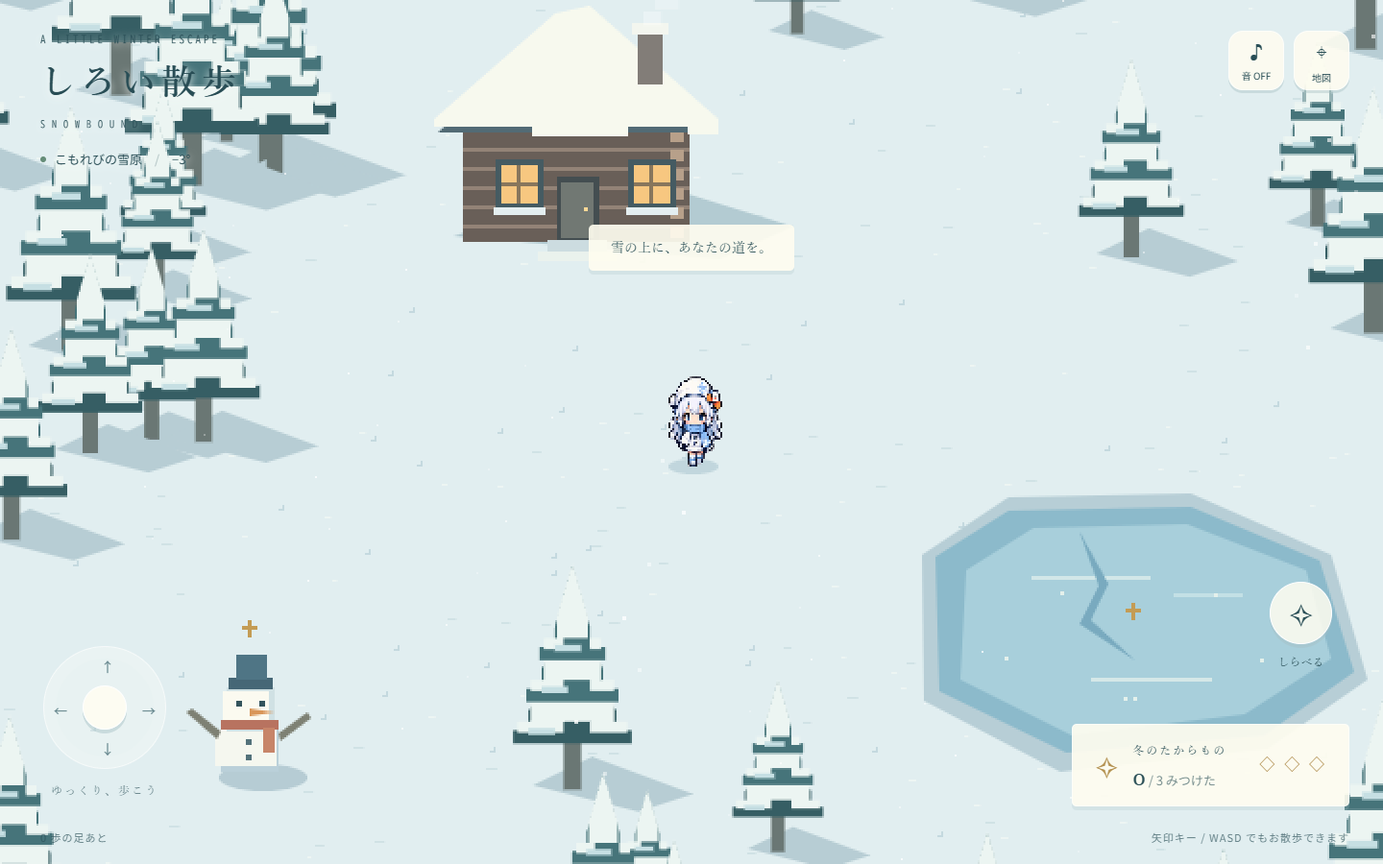
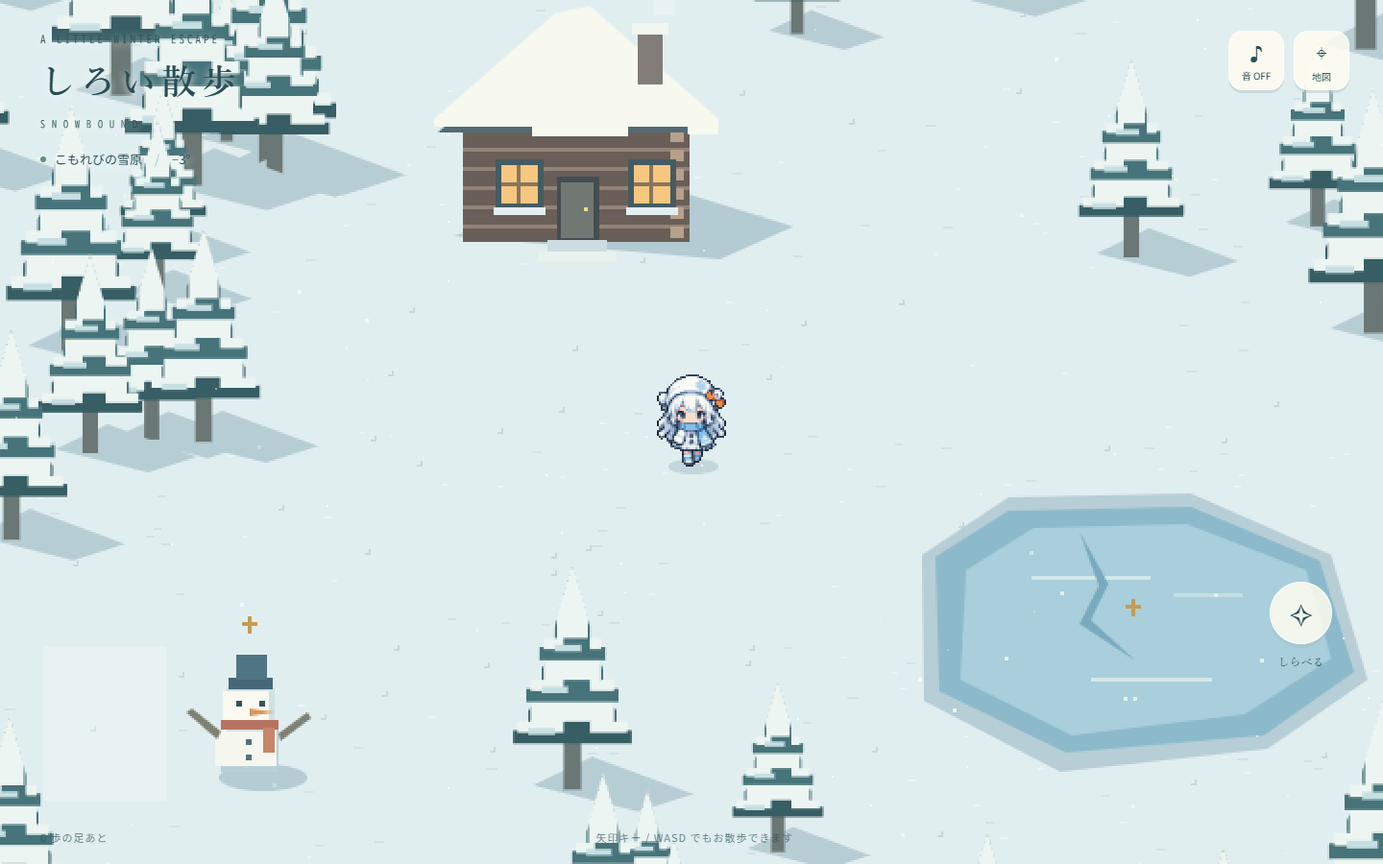
Stabilize winter sprite animation and clear mobile walking area

diff --git a/ui-lab/snow-walk/world.js b/ui-lab/snow-walk/world.js
@@ -1,7 +1,7 @@
 'use strict';
 const canvas=document.querySelector('#world'),ctx=canvas.getContext('2d'),$=s=>document.querySelector(s);
 const W=1600,H=1400,player={x:800,y:740,dir:0},camera={x:800,y:740},keys=new Set(),joy={x:0,y:0};
-let width,height,time=0,last=0,walk=0,stepCount=0,stepTravel=0,toastUntil=7,frames=[],sound=false,audioContext;
+let width,height,time=0,last=0,walk=0,stepCount=0,stepTravel=0,toastUntil=0,frames=[],sound=false,audioContext;
 const footprints=[],trees=[],details=[],found=new Set(),reduced=matchMedia('(prefers-reduced-motion: reduce)').matches;
 let seed=41;function random(){seed=(seed*1664525+1013904223)>>>0;return seed/4294967296}
 const sites=[{x:740,y:620,name:'灯りのともる小屋',text:'窓から、焼きたてのパンの香り。',type:'cabin'},{x:1030,y:830,name:'こおりの池',text:'氷の下で、星のかけらが光っている。',type:'pond'},{x:570,y:900,name:'ひとりの雪だるま',text:'小さなマフラーが、風にゆれている。',type:'snowman'}];
@@ -26,13 +26,13 @@ addEventListener('keydown',e=>{if(['ArrowUp','ArrowDown','ArrowLeft','ArrowRight
 const stick=$('#stick');let pointer=null;function stickMove(e){if(e.pointerId!==pointer)return;const r=stick.getBoundingClientRect(),x=e.clientX-r.left-r.width/2,y=e.clientY-r.top-r.height/2,d=Math.hypot(x,y),m=Math.min(d,37);joy.x=d>6?x/d*m/37:0;joy.y=d>6?y/d*m/37:0;$('#knob').style.transform=`translate(${joy.x*32}px,${joy.y*32}px)`}function release(){pointer=null;joy.x=joy.y=0;$('#knob').style.transform='';keys.clear()}stick.onpointerdown=e=>{if(pointer!==null)return;pointer=e.pointerId;stick.setPointerCapture(pointer);stickMove(e)};stick.onpointermove=stickMove;stick.onpointerup=release;stick.onpointercancel=release;stick.onlostpointercapture=release;addEventListener('blur',release);document.addEventListener('visibilitychange',()=>{release();if(document.hidden)audioContext?.suspend();else if(sound)audioContext?.resume()});
 function blocked(x,y){return x<35||y<55||x>W-35||y>H-35||trees.some(t=>Math.hypot(t.x-x,t.y-y)<13*t.size)|| (x>sites[0].x-62&&x<sites[0].x+62&&y>sites[0].y-70&&y<sites[0].y+16)||Math.hypot(x-sites[2].x,y-sites[2].y+5)<22}
 function drawMap(){const m=$('#map').getContext('2d');m.fillStyle='#dfeaec';m.fillRect(0,0,220,220);m.fillStyle='#7d9fa0';trees.forEach(t=>m.fillRect(t.x/W*220,t.y/H*220,3,3));sites.forEach(s=>{m.fillStyle=found.has(s.type)?'#b68a43':'#6e919f';m.fillRect(s.x/W*220-3,s.y/H*220-3,6,6)});m.fillStyle='#c67759';m.beginPath();m.arc(player.x/W*220,player.y/H*220,4,0,7);m.fill()}
-function render(now){const dt=Math.min((now-last)/1000||0,.04);last=now;time+=dt;let dx=joy.x+(keys.has('arrowright')||keys.has('d')?1:0)-(keys.has('arrowleft')||keys.has('a')?1:0),dy=joy.y+(keys.has('arrowdown')||keys.has('s')?1:0)-(keys.has('arrowup')||keys.has('w')?1:0);const len=Math.hypot(dx,dy);if(len>1){dx/=len;dy/=len}const ox=player.x,oy=player.y;if(len){player.dir=Math.abs(dx)>Math.abs(dy)?(dx>0?2:1):(dy>0?0:3);if(!blocked(player.x+dx*70*dt,player.y))player.x+=dx*70*dt;if(!blocked(player.x,player.y+dy*70*dt))player.y+=dy*70*dt}const distance=Math.hypot(player.x-ox,player.y-oy);walk+=distance/9;stepTravel+=distance;if(stepTravel>10){stepTravel=0;stepCount++;const side=stepCount%2?3:-3;footprints.push({x:player.x-dy*side,y:player.y+dx*side,t:time,dir:player.dir});if(footprints.length>700)footprints.shift();$('#steps').textContent=stepCount+' 歩の足あと';crunch()}camera.x+=(player.x-camera.x)*Math.min(1,dt*5);camera.y+=(player.y-camera.y)*Math.min(1,dt*5);ctx.setTransform(1,0,0,1,0,0);rect(0,0,width,height,'#e1eef0');ctx.save();ctx.translate(Math.round(width/2-camera.x),Math.round(height*.54-camera.y));
+function render(now){const dt=Math.min((now-last)/1000||0,.04);last=now;time+=dt;let dx=joy.x+(keys.has('arrowright')||keys.has('d')?1:0)-(keys.has('arrowleft')||keys.has('a')?1:0),dy=joy.y+(keys.has('arrowdown')||keys.has('s')?1:0)-(keys.has('arrowup')||keys.has('w')?1:0);const len=Math.hypot(dx,dy);if(len>1){dx/=len;dy/=len}const ox=player.x,oy=player.y;if(len){player.dir=walkingDirection(dx,dy,player.dir);if(!blocked(player.x+dx*70*dt,player.y))player.x+=dx*70*dt;if(!blocked(player.x,player.y+dy*70*dt))player.y+=dy*70*dt}const distance=Math.hypot(player.x-ox,player.y-oy);walk+=distance/9;stepTravel+=distance;if(stepTravel>10){stepTravel=0;stepCount++;const side=stepCount%2?3:-3;footprints.push({x:player.x-dy*side,y:player.y+dx*side,t:time,dir:player.dir});if(footprints.length>700)footprints.shift();$('#steps').textContent=stepCount+' 歩の足あと';crunch()}camera.x+=(player.x-camera.x)*Math.min(1,dt*5);camera.y+=(player.y-camera.y)*Math.min(1,dt*5);ctx.setTransform(1,0,0,1,0,0);rect(0,0,width,height,'#e1eef0');ctx.save();ctx.translate(Math.round(width/2-camera.x),Math.round(height*.54-camera.y));
 rect(0,0,W,H,'#e1eef0');for(const d of details){if(Math.abs(d.x-camera.x)>width/2+10||Math.abs(d.y-camera.y)>height/2+40)continue;if(d.r>.8){rect(d.x,d.y,3,1,'#c4d9df');rect(d.x+2,d.y-2,1,3,'#c4d9df')}else rect(d.x,d.y,2+d.r*5,1,d.r>.4?'#d0e2e5':'#edf5f3')}
 pond(sites[1]);for(const f of footprints){const age=(time-f.t)/85;if(age>1)continue;ctx.globalAlpha=(1-age)*.5;rect(f.x-1,f.y-1,f.dir===1||f.dir===2?4:2,f.dir===1||f.dir===2?2:4,'#7395aa');rect(f.x-1,f.y-2,2,1,'#fff')}ctx.globalAlpha=1;
-const objects=[...trees,sites[0],sites[2],{...player,type:'player'}].sort((a,b)=>a.y-b.y);for(const o of objects){if(Math.abs(o.x-camera.x)>width/2+130||Math.abs(o.y-camera.y)>height/2+150)continue;if(o.type==='tree')tree(o);else if(o.type==='cabin')cabin(o);else if(o.type==='snowman')snowman(o);else{ellipse(player.x+1,player.y,13,4,'#9dbac877');const frame=frames[player.dir*3+(distance>.01?Math.floor(walk)%3:1)];if(frame)ctx.drawImage(frame,Math.round(player.x-20),Math.round(player.y-49),40,50)}}
+const objects=[...trees,sites[0],sites[2],{...player,type:'player'}].sort((a,b)=>a.y-b.y);for(const o of objects){if(Math.abs(o.x-camera.x)>width/2+130||Math.abs(o.y-camera.y)>height/2+150)continue;if(o.type==='tree')tree(o);else if(o.type==='cabin')cabin(o);else if(o.type==='snowman')snowman(o);else{ellipse(player.x+1,player.y,13,4,'#9dbac877');const frame=frames[player.dir*4+(distance>.01?Math.floor(walk)%4:0)];if(frame)ctx.drawImage(frame,Math.round(player.x-20),Math.round(player.y-49),40,50)}}
 for(const s of sites){if(!found.has(s.type)){const y=s.y-(s.type==='cabin'?132:s.type==='pond'?15:76);rect(s.x-1,y-4+Math.sin(time*2)*2,2,9,'#c49c54');rect(s.x-4,y-1+Math.sin(time*2)*2,8,2,'#c49c54')}}ctx.restore();
 if(!reduced){for(let i=0;i<75;i++){const x=((i*73.13+Math.sin(time*.3+i)*13+time*(3+i%3))% (width+20))-10,y=(i*49.71+time*(9+i%6))%(height+20)-10;ctx.globalAlpha=.3+(i%4)*.16;rect(x,y,i%5===0?2:1,i%5===0?2:1,'#fff')}ctx.globalAlpha=1}
 const s=near();$('#action').classList.toggle('ready',!!s);$('#actionLabel').textContent=s?'みつけた？':'しらべる';$('#place').textContent=s?s.name:'こもれびの雪原';if(time>toastUntil)$('#toast').style.opacity=0;if(!$('#mapPanel').hidden)drawMap();requestAnimationFrame(render)}
-async function load(){const img=new Image();img.src='assets/walker.jpg';await img.decode();for(let row=0;row<4;row++)for(let col=0;col<3;col++){const c=document.createElement('canvas');c.width=300;c.height=300;const g=c.getContext('2d',{willReadFrequently:true});g.drawImage(img,col*300+(col===0?25:col===1?8:10),row*300+22,300,300,0,0,300,300);const data=g.getImageData(0,0,300,300),p=data.data,seen=new Uint8Array(90000),queue=new Int32Array(90000);let head=0,tail=0;function add(i){if(i<0||i>=90000||seen[i])return;seen[i]=1;const j=i*4;if(p[j]>225&&p[j+1]>225&&p[j+2]>225)queue[tail++]=i}for(let i=0;i<300;i++){add(i);add(89700+i);add(i*300);add(i*300+299)}while(head<tail){const i=queue[head++];p[i*4+3]=0;if(i%300)add(i-1);if(i%300<299)add(i+1);add(i-300);add(i+300)}g.putImageData(data,0,0);frames.push(c)}$('#loading').hidden=true;requestAnimationFrame(render)}
+async function load(){frames=await loadWalkerFrames(); $("#loading").hidden=true;requestAnimationFrame(render)}
 load().catch(()=>{$('#loading').textContent='画像を読み込めませんでした。ページを再読み込みしてください。'});
 document.modelContext?.registerTool?.({name:'read_snow_walk',description:'Read the current position and discovered winter landmarks.',inputSchema:{type:'object',properties:{},additionalProperties:false},annotations:{readOnlyHint:true},execute:()=>({position:{x:player.x,y:player.y},steps:stepCount,discoveries:[...found]})});

diff --git a/ui-lab/snow-walk/style.css b/ui-lab/snow-walk/style.css
@@ -1,1 +1,32 @@
 *{box-sizing:border-box}html,body{margin:0;width:100%;height:100%;overflow:hidden;background:#dcebef;color:#284d55;font-family:Georgia,'Yu Mincho','Hiragino Mincho ProN',serif}body{touch-action:none;user-select:none}#world{display:block;width:100%;height:100%;image-rendering:pixelated;outline:none}button{font:inherit;cursor:pointer;color:inherit;-webkit-tap-highlight-color:transparent}button:focus-visible,#world:focus-visible{outline:3px solid #c08032;outline-offset:5px}header{position:absolute;top:max(35px,env(safe-area-inset-top));left:42px;pointer-events:none;text-shadow:0 2px 8px #f5faf8}.eyebrow{font-family:monospace;font-size:11px;letter-spacing:3px}h1{font-size:36px;font-weight:500;letter-spacing:6px;margin:12px 0}h1 span{display:block;font:10px monospace;letter-spacing:7px;margin-top:9px}header p{font:13px sans-serif;margin-top:22px;display:flex;align-items:center;gap:9px}i{height:6px;width:6px;background:#658d78;border-radius:50%}.divider{opacity:.35;padding:0 4px}nav{position:absolute;right:35px;top:max(32px,env(safe-area-inset-top));display:flex;gap:10px}nav button{width:58px;height:62px;border:1px solid #fff9;background:#fffdf0d9;box-shadow:0 3px 0 #a7bfc369;border-radius:15px;font-size:25px}nav span{display:block;font:10px sans-serif;margin-top:3px}#toast{position:absolute;top:26%;left:50%;transform:translateX(-50%);padding:13px 23px;border-radius:5px;background:#fffdf0e8;box-shadow:0 4px 0 #a4bec33b;font-size:14px;white-space:nowrap;transition:opacity 1s;pointer-events:none}#journal{position:absolute;right:35px;bottom:60px;background:#fffdf0e8;border:1px solid #fff9;padding:16px 22px;display:flex;gap:14px;align-items:center;border-radius:5px;box-shadow:0 4px 0 #a4bec33b}#journal small{font-size:12px;letter-spacing:2px}#journal p{margin:6px 0 0;font:13px sans-serif}#journal b{font:22px Georgia}#journal p span{opacity:.65}.star{font-size:32px;color:#b49150}#gems{letter-spacing:3px;color:#ad8948;margin-left:20px}#controls{position:absolute;left:45px;bottom:66px;text-align:center}#stick{width:128px;height:128px;border:1px solid #fff9;border-radius:50%;background:#f8fcf54d;box-shadow:inset 0 0 0 12px #ffffff18;position:relative;touch-action:none}#stick span{position:absolute;font:14px sans-serif;color:#64858c}.north{top:10px;left:59px}.south{bottom:10px;left:59px}.west{left:10px;top:56px}.east{right:10px;top:56px}#knob{position:absolute;left:40px;top:40px;width:46px;height:46px;border-radius:50%;background:#fffdf2e8;border:1px solid white;box-shadow:0 4px 0 #9bb7be66;pointer-events:none}.control-label{font-size:12px;letter-spacing:2px;margin-top:13px;opacity:.7}#actionWrap{position:absolute;bottom:200px;right:53px;text-align:center;display:grid;gap:9px;font-size:12px}#action{border-radius:50%;width:65px;height:65px;background:#fffdf0d9;border:1px solid white;font-size:34px;box-shadow:0 4px 0 #a4bec366}#action.ready{background:#ffe8b7;box-shadow:0 0 25px #ffda94}footer{position:absolute;bottom:max(20px,env(safe-area-inset-bottom));left:42px;right:35px;display:flex;justify-content:space-between;font:11px sans-serif;letter-spacing:1px;opacity:.7}#mapPanel{position:absolute;right:35px;top:110px;background:#fffdf2f5;padding:20px;box-shadow:0 8px 30px #31596233;border-radius:8px;z-index:2}#mapPanel h2{font-size:16px;font-weight:normal;margin-top:0}#mapPanel p{font-size:11px}#map{width:220px;height:220px;image-rendering:pixelated}#loading{position:absolute;inset:0;display:grid;place-items:center;background:#e1eef0;z-index:5;font-size:16px}#loading[hidden]{display:none}@media(max-width:600px){header{left:22px;top:max(25px,env(safe-area-inset-top))}.eyebrow{font-size:9px;letter-spacing:2px}h1{font-size:27px;letter-spacing:4px}h1 span{font-size:9px;letter-spacing:5px}header p{font-size:11px;margin-top:16px}nav{right:18px;top:24px;gap:7px}nav button{width:43px;height:51px;border-radius:12px;font-size:22px}nav span{font-size:9px}#controls{left:24px;bottom:85px}#stick{width:120px;height:120px}#knob{left:36px;top:36px}.north,.south{left:55px}.west,.east{top:52px}#actionWrap{right:35px;bottom:107px}#journal{left:22px;right:auto;bottom:255px;padding:11px 14px;gap:10px}#journal small{font-size:11px}#journal p{margin-top:3px}#gems{margin-left:12px}footer{left:24px;right:24px;bottom:28px}footer span:last-child{display:none}#toast{top:24%;font-size:12px;max-width:90%;white-space:normal;text-align:center;width:max-content}#mapPanel{right:18px;top:88px}}@media(max-height:540px){#journal{bottom:40px}#controls{bottom:40px}#actionWrap{bottom:140px}header h1{font-size:23px}header p{margin-top:8px}#toast{top:18%}}
+/* Keep the walking surface clear, including short mobile browser viewports. */
+body{height:100dvh;position:relative}
+#journal{left:auto;right:24px;bottom:max(22px,env(safe-area-inset-bottom));padding:0;border:0;background:none;box-shadow:none;border-radius:0;gap:7px;pointer-events:none;text-shadow:0 1px 4px #fff}
+#journal>div:first-of-type{display:flex;align-items:baseline;gap:9px}
+#journal small{font-size:12px;letter-spacing:0}
+#journal p{margin:0;font-size:12px}
+#journal b{font:16px Georgia}
+#journal .star{font-size:20px}
+#gems{display:none}
+footer{pointer-events:none}
+footer span:last-child{position:absolute;left:50%;transform:translateX(-50%);white-space:nowrap}
+#toast{top:170px;bottom:auto;max-width:min(420px,calc(100% - 40px));white-space:normal;width:max-content;text-align:center;opacity:0}
+nav span{white-space:nowrap;line-height:1.2}
+@media(max-width:600px){
+  #journal{right:22px;bottom:max(23px,env(safe-area-inset-bottom));left:auto}
+  #journal p{margin:0}
+  #toast{top:155px;font-size:12px}
+  #controls{bottom:max(72px,calc(env(safe-area-inset-bottom) + 48px))}
+  #actionWrap{bottom:max(94px,calc(env(safe-area-inset-bottom) + 70px))}
+}
+@media(max-height:540px){
+  header{top:14px;left:20px}
+  .eyebrow,header h1 span,header p{display:none}
+  nav{top:12px;right:18px}
+  #controls{bottom:48px}
+  #actionWrap{bottom:66px;right:28px}
+  #toast{top:78px}
+  #journal{bottom:max(14px,env(safe-area-inset-bottom))}
+  footer{bottom:max(18px,env(safe-area-inset-bottom))}
+  footer span:last-child{display:none}
+}

diff --git a/ui-lab/snow-walk/sprites.js b/ui-lab/snow-walk/sprites.js
@@ -1,0 +1,75 @@
+'use strict';
+// One canonical drawing per direction. Only boots change during the walk cycle;
+// the face, hat, hair and silhouette never switch to a different source drawing.
+async function loadWalkerFrames() {
+  const image = new Image();
+  image.src = 'assets/walker.jpg';
+  await image.decode();
+  const result = [];
+  const palette = ['#20283d','#34425c','#52647d','#7488a1','#99afc6',
+    '#becddd','#dbe4ed','#f9faf7','#407198','#5999c7','#85bdeb',
+    '#aed5ef','#f9dfc9','#efbca9','#d98e87','#ed8d42','#bd5733']
+    .map(hex => [1,3,5].map(offset => parseInt(hex.slice(offset,offset+2),16)));
+  for (let direction = 0; direction < 4; direction++) {
+    const source = document.createElement('canvas');
+    source.width = source.height = 300;
+    const g = source.getContext('2d', {willReadFrequently:true});
+    g.drawImage(image,308,direction*300+22,300,300,0,0,300,300);
+    const pixels = g.getImageData(0,0,300,300), p = pixels.data;
+    const visited = new Uint8Array(90000), queue = new Int32Array(90000);
+    let head=0, tail=0;
+    function visit(i) {
+      if(i<0 || i>=90000 || visited[i]) return;
+      visited[i]=1;
+      const j=i*4;
+      if(p[j]>225 && p[j+1]>225 && p[j+2]>225) queue[tail++]=i;
+    }
+    for(let i=0;i<300;i++){visit(i);visit(89700+i);visit(i*300);visit(i*300+299);}
+    while(head<tail){
+      const i=queue[head++];p[i*4+3]=0;
+      if(i%300)visit(i-1);if(i%300<299)visit(i+1);
+      visit(i-300);visit(i+300);
+    }
+    let left=300,top=300,right=0,bottom=0;
+    for(let i=0;i<90000;i++) if(p[i*4+3]) {
+      const x=i%300,y=Math.floor(i/300);
+      left=Math.min(left,x);right=Math.max(right,x);
+      top=Math.min(top,y);bottom=Math.max(bottom,y);
+    }
+    g.putImageData(pixels,0,0);
+    const base=document.createElement('canvas');base.width=40;base.height=50;
+    const b=base.getContext('2d',{willReadFrequently:true});
+    const targetWidth=Math.min(38,Math.round((right-left+1)*48/(bottom-top+1)));
+    b.imageSmoothingEnabled=true;b.imageSmoothingQuality='high';
+    b.drawImage(source,left,top,right-left+1,bottom-top+1,Math.floor((40-targetWidth)/2),1,targetWidth,48);
+    // Bake a shared small palette onto a fixed pixel grid once, not every frame.
+    const small=b.getImageData(0,0,40,50), a=small.data;
+    for(let i=0;i<a.length;i+=4){
+      if(a[i+3]<160){a[i+3]=0;continue;}
+      let best=palette[0],score=Infinity;
+      for(const color of palette){
+        const d=(a[i]-color[0])**2+(a[i+1]-color[1])**2+(a[i+2]-color[2])**2;
+        if(d<score){score=d;best=color;}
+      }
+      a[i]=best[0];a[i+1]=best[1];a[i+2]=best[2];a[i+3]=255;
+    }
+    b.putImageData(small,0,0);
+    for(const shift of [0,-1,0,1]){
+      const frame=document.createElement('canvas');frame.width=40;frame.height=50;
+      const f=frame.getContext('2d');f.imageSmoothingEnabled=false;
+      f.drawImage(base,0,40,20,10,0,40+shift,20,10);
+      f.drawImage(base,20,40,20,10,20,40-shift,20,10);
+      f.drawImage(base,0,0,40,41,0,0,40,41);
+      result.push(frame);
+    }
+  }
+  return result;
+}
+
+function walkingDirection(dx,dy,current) {
+  // Hysteresis prevents a thumb near the diagonal from rapidly flipping views.
+  const horizontal=current===1 || current===2;
+  if(horizontal ? Math.abs(dy)>Math.abs(dx)*1.35 : Math.abs(dx)>Math.abs(dy)*1.35)
+    return horizontal ? (dy>0?0:3) : (dx>0?2:1);
+  return horizontal ? (dx===0?current:dx>0?2:1) : (dy===0?current:dy>0?0:3);
+}

diff --git a/ui-lab/snow-walk/index.html b/ui-lab/snow-walk/index.html
@@ -1,12 +1,12 @@
 <!doctype html>
-<html lang="ja"><head><meta charset="UTF-8"><meta name="viewport" content="width=device-width, initial-scale=1, viewport-fit=cover"><meta name="theme-color" content="#dcebef"><link rel="icon" href="data:,"><title>しろい散歩 — Snowbound</title><link rel="stylesheet" href="style.css"></head>
+<html lang="ja"><head><meta charset="UTF-8"><meta name="viewport" content="width=device-width, initial-scale=1, viewport-fit=cover"><meta name="theme-color" content="#dcebef"><link rel="icon" href="data:,"><title>しろい散歩 — Snowbound</title><link rel="stylesheet" href="style.css?v=2"></head>
 <body><canvas id="world" tabindex="0" aria-label="雪の森。矢印キーまたはWASDで移動、スペースで調べる。"></canvas>
 <header><div class="eyebrow">A LITTLE WINTER ESCAPE</div><h1>しろい散歩<span>SNOWBOUND</span></h1><p><i></i><span id="place">こもれびの雪原</span><span class="divider">/</span> −3°</p></header>
 <nav aria-label="世界の設定"><button id="sound" aria-label="環境音をオンにする" aria-pressed="false">♪<span>音 OFF</span></button><button id="mapButton" aria-label="地図を開く" aria-expanded="false">⌖<span>地図</span></button></nav>
 <aside id="mapPanel" hidden><h2>小さな冬の地図</h2><canvas id="map" width="220" height="220" aria-label="現在地と三つの発見場所"></canvas><p>● 現在地　◆ 冬のたからもの</p></aside>
-<div id="toast" role="status">雪の上に、あなたの道を。</div>
-<section id="journal"><span class="star">✧</span><div><small>冬のたからもの</small><p><b id="count">0</b><span> / 3 みつけた</span></p></div><div id="gems">◇ ◇ ◇</div></section>
+<div id="toast" role="status"></div>
+<section id="journal"><span class="star">✧</span><div><small>冬のたからもの</small><p><b id="count">0</b><span> / 3</span></p></div><div id="gems">◇ ◇ ◇</div></section>
 <div id="controls"><div id="stick" role="group" aria-label="ドラッグして歩く"><span class="north">↑</span><span class="west">←</span><span class="east">→</span><span class="south">↓</span><div id="knob"></div></div><div class="control-label">ゆっくり、歩こう</div></div>
 <div id="actionWrap"><button id="action" aria-label="近くを調べる">✧</button><span id="actionLabel">しらべる</span></div>
 <footer><span id="steps">0 歩の足あと</span><span>矢印キー / WASD でもお散歩できます</span></footer>
-<div id="loading">雪の世界をひらいています…</div><script src="world.js"></script></body></html>
+<div id="loading">雪の世界をひらいています…</div><script src="sprites.js?v=2"></script><script src="world.js?v=2"></script></body></html>

diff --git a/ui-lab/snow-walk/RETROSPECTIVE.md b/ui-lab/snow-walk/RETROSPECTIVE.md
@@ -3,10 +3,10 @@
 ## What worked
 Border-connected white removal preserves the supplied character's white clothing. Canvas depth sorting makes trees occlude the walker naturally. Footprints alternate and fade over 85 seconds.
 ## What felt wrong
-The initial mobile scale showed too little surrounding landscape. The first cabin placement clipped the roof at spawn.
+The initial mobile scale showed too little surrounding landscape. The first cabin placement clipped the roof at spawn. A user's phone screenshot exposed the persistent discovery panel covering the character on a short viewport. The source drawings also change facial and clothing details between steps.
 ## Fixes
-Mobile rendering uses 1.3 CSS pixels per world pixel, versus 2 on desktop. Moved landmarks to compose the arrival view. Added an inline favicon to eliminate the incidental 404.
+Mobile rendering uses 1.3 CSS pixels per world pixel, versus 2 on desktop. Moved landmarks to compose the arrival view. Added an inline favicon to eliminate the incidental 404. Replaced the discovery panel with a bottom-edge text counter, removed the opening toast, and constrained interaction messages below the header. Rebuilt animation from one palette-normalized drawing per direction, moving boots only. Added axis hysteresis to stabilize diagonal facing.
 ## Open questions
-Real iOS/Android hardware and audible playback have not been verified. Exploration resets on refresh. WebMCP read-only registry is feature-detected, but no compatible registry was available to validate it. Hosting is not performed: project instructions require explicit deployment authority.
+Real iOS/Android hardware and audible playback have not been verified. Exploration resets on refresh. WebMCP read-only registry is feature-detected, but no compatible registry was available to validate it. The user authorized integration and push to the existing GitHub Pages site. Boot-only animation intentionally favors stable character identity over large full-body pose changes.
 ## Candidates for shared learnings
 For opaque sprite sheets, border flood fill is safer than global white removal. A smaller mobile world scale reveals nearby destinations without shrinking touch controls.

diff --git a/ui-lab/snow-walk/DESIGN.md b/ui-lab/snow-walk/DESIGN.md
@@ -9,10 +9,10 @@ Top-down pixel forest, blue snow shadows, dark teal firs, tiny amber windows. Th
 ## Tokens
 Snow #e1eef0; shadow #a9c5d4; forest #30575d; ink #274b53; paper #fffdf2. Nearest-neighbor canvas rendered at half CSS resolution.
 ## Layout Anatomy
-Title and location upper left; sound and map upper right; contextual discoveries below; thumb joystick lower left and action lower right.
+Title and location upper left; sound and map upper right; discovery count as a single line at the bottom edge; thumb joystick lower left and action lower right. The character's central walking area stays free of persistent overlays. No introductory toast.
 ## Interaction / Motion
-Pointer-captured joystick, arrow/WASD navigation, four-direction sprite animation, follow camera, fading alternating footprints, layered snowfall, collision, contextual discovery and minimap.
+Pointer-captured joystick, arrow/WASD navigation, four-direction sprite animation, follow camera, fading alternating footprints, layered snowfall, collision, contextual discovery and minimap. Direction selection uses a 1.35 axis threshold to resist diagonal thumb jitter. Dynamic viewport height keeps controls within mobile browser chrome.
 ## Constraints
 No dependencies, no remote assets, no publication without explicit authority. Respect reduced motion for ambient effects. Preserve white character details by flood-filling only border-connected background pixels at runtime.
 ## Adaptation from reference
-Use the first three consistent poses per direction; ignore the mirrored fourth column. All environment art is native canvas pixel geometry.
+Use one canonical drawing (second column) per direction. Normalize bounds to a 40 × 50 pixel canvas with 48-pixel character height and a shared 17-color palette. Bake four phases per direction with only the boot region moving by one pixel; keep the upper 41 rows identical. This preserves the supplied design without cycling inconsistent face/hat drawings. All environment art is native canvas pixel geometry.

diff --git a/ui-lab/snow-walk/TEST-REPORT.md b/ui-lab/snow-walk/TEST-REPORT.md
@@ -1,10 +1,15 @@
 # Verification
 
 - Browser rendering inspected at 390 × 844 and 1440 × 900.
-- All 12 directional frames load; sprite background is transparent.
+- Revised sprite pipeline loads 16 baked frames (4 directions × 4 phases); background is transparent. Pixel comparison confirms the upper 40 rows are identical throughout every direction's walk cycle. Near-diagonal direction probes remain stable and a deliberate axis change turns correctly.
 - Arrow-key movement produced 8 steps. Pointer dragging produced 5 footprints; releasing reset joystick velocity.
 - Map button opens the minimap; discovery action reaches all 3 unique landmarks in a controlled position-state check (not a full walked route).
 - Keyboard focus reaches the canvas. Native buttons retain visible focus styles.
 - No page JavaScript errors in the verification run; favicon 404 fixed.
 - Node syntax check passes. Static study contract checked separately.
 - Mobile testing used a desktop browser viewport and pointer events, not physical phone hardware. Sound synthesis has not been verified by listening.
+
+## Mobile overlap and animation revision
+- Viewports checked: 320 × 568, 390 × 630 (short phone browser), 390 × 844, 844 × 390 and 1440 × 900. The counter clears the central character area at every size; no horizontal overflow and no opening toast.
+- Inspected the short phone screenshot and canonical sprite contact sheet. Refreshed gallery screenshots.
+- Pointer walk leaves 5 footprints and stops on release. Interaction message, map toggle, and sound toggle work; no page errors during the run. Audio output was not listened to.
